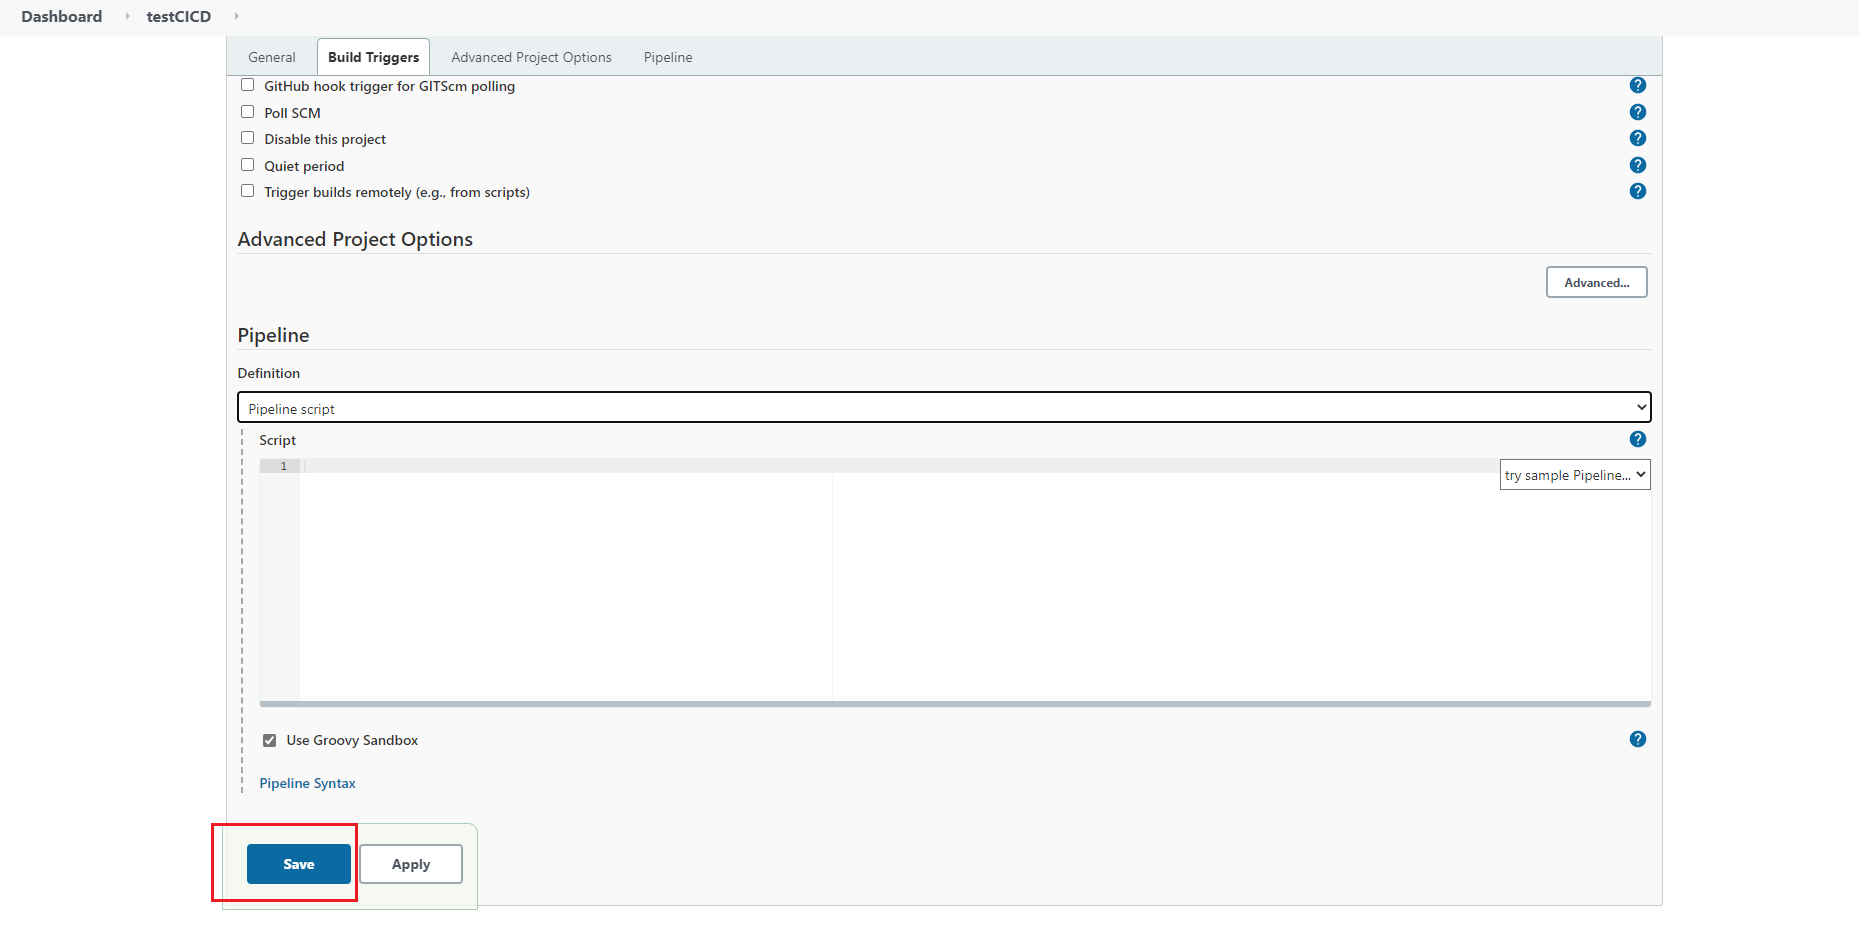
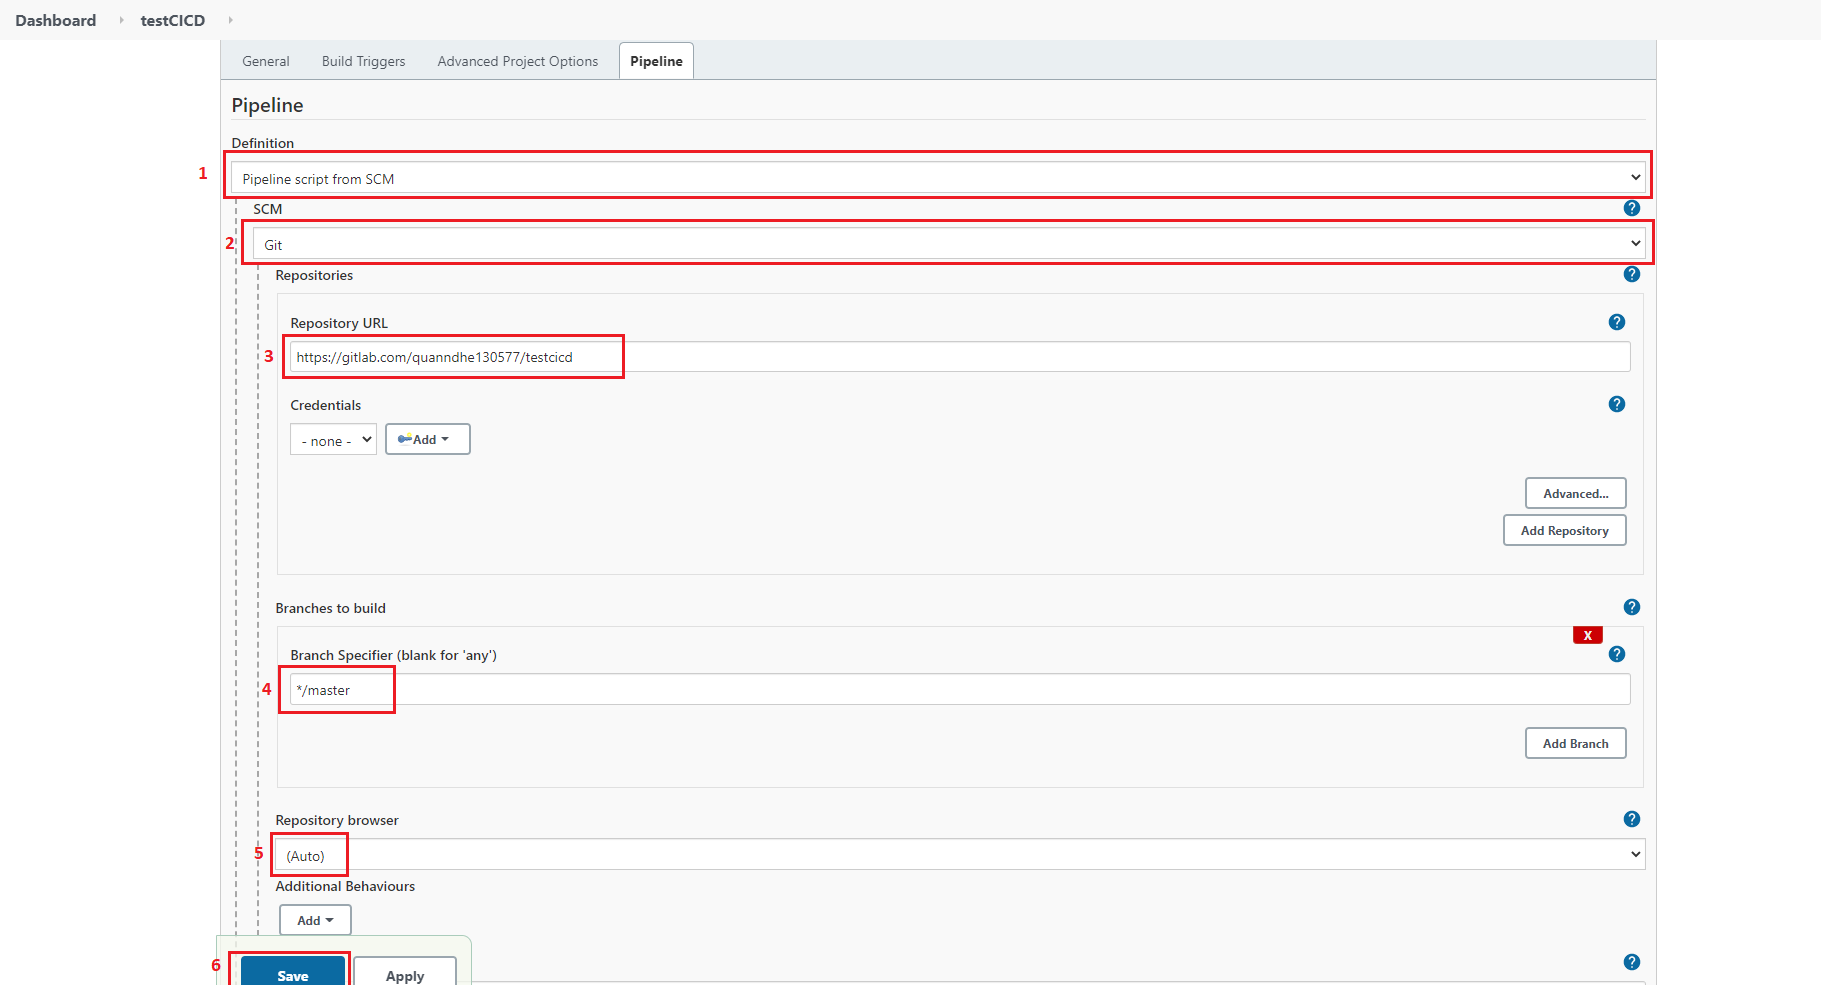
update Result

diff --git a/Week_5/readme.md b/Week_5/readme.md
@@ -33,7 +33,7 @@ Tại giao diện Dashboard, chọn `New item`, sau đó nhập tên item, chọ
 
  <img src="img/Cai dat gitlab plugin in Jenkins 4.png">
 
-Tại giao diện `Build Triggers` được mở ra, chúng ta có thể kéo xuống và ấn `Save` luôn
+Tại giao diện `Build Triggers` được mở ra, chúng ta chúng ta cấu hình như sau, sau đó ấn `Save`
 
  <img src="img/Cai dat gitlab plugin in Jenkins 5.png">
 
@@ -73,4 +73,39 @@ Nhấn `Add Webhook`, 1 project webhooks sẽ được tạo ra, chúng ta chọ
 
 Trên giao diện chính Dashboard của pipeline, chúng ta chọn `Build Now`. Sau khi chạy thành công sẽ hiển thị ra thêm một dòng ở `Build History`. Nhận chọn để xem logs quá trình build ở mục `Console Output`
 
+Jenkinsfile :
+
+    pipeline {
+        agent any
+        environment {
+            dotnet = 'path\\to\\dotnet.exe'
+        }
+        stages {
+        	stage('Restore Packages') {
+     	        steps {
+      	            bat "dotnet restore"
+     	        }
+        	}
+     	    stage('Clean') {
+         	    steps {
+          		    bat "dotnet clean"
+         	    }
+    	    }
+            stage('Build') {
+                steps {
+                    bat 'dotnet build'
+                }
+            }
+            stage('Test') {
+                steps {
+                    bat 'dotnet test'
+                }
+            }
+        }
+    }
+
 <img src="img/Cai dat gitlab plugin in Jenkins 9.png">
+
+Kết quả :
+
+<img src="img/Cai dat gitlab plugin in Jenkins 10.png">
